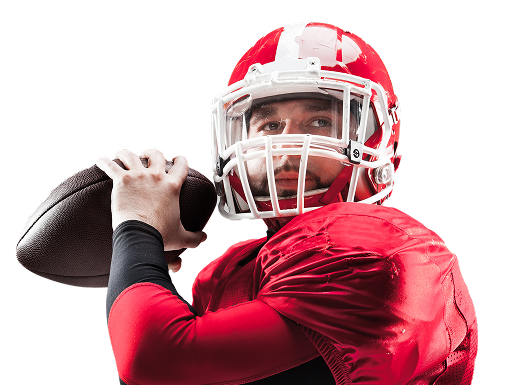
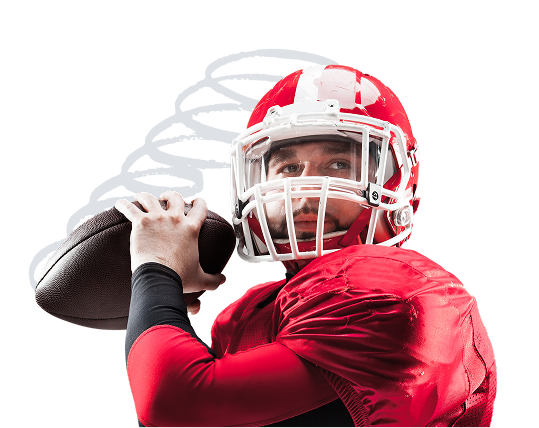
feat: subscription section

diff --git a/styles/main.css b/styles/main.css
@@ -583,6 +583,11 @@ button[aria-label]::before {
   padding: 0.1875rem 0.4375rem;
   border-radius: 0.1875rem;
 }
+.button__subscription {
+  border-radius: 0;
+  background-color: var(--color-dark);
+  width: 4.6875rem;
+}
 
 .icon {
   display: inline-flex;
@@ -601,6 +606,9 @@ button[aria-label]::before {
 }
 .icon--search::before {
   background-image: url("../../icons/icon__search-white.svg");
+}
+.icon--subscription::before {
+  background-image: url("../../icons/icon__arrow-white-top.svg");
 }
 
 .logo {
@@ -1651,6 +1659,104 @@ button[aria-label]::before {
   color: var(--color-gray-40);
 }
 
+.subscription__body {
+  display: grid;
+  grid-template-areas: "title image" "form image";
+  background-color: var(--color-gray-10);
+  border-radius: 0.375rem;
+  padding-left: 4.25rem;
+}
+@media (width <= 63.99875rem) {
+  .subscription__body {
+    grid-template-areas: "title" "form" "image";
+    padding-left: var(--container-padding-x);
+  }
+}
+.subscription__title {
+  grid-area: title;
+  font-size: clamp(1.5rem, 0.9264705882rem + 2.3529411765vw, 3.75rem);
+  display: flex;
+  align-items: center;
+  width: 35.625rem;
+  text-transform: uppercase;
+  font-weight: 800;
+  line-height: 1.2;
+  background: linear-gradient(to bottom, #2b2d33 0%, #6b6f76 60%, #d8d9db 90%, #f5f5f6 100%);
+  background-clip: text;
+  -webkit-background-clip: text;
+  -webkit-text-fill-color: transparent;
+  color: transparent;
+}
+@media (width <= 63.99875rem) {
+  .subscription__title {
+    width: 23.125rem;
+    justify-self: center;
+    justify-content: center;
+    justify-items: center;
+    text-align: center;
+    padding-top: 2.5rem;
+  }
+}
+@media (width <= 30.06125rem) {
+  .subscription__title {
+    width: 100%;
+  }
+}
+.subscription__form {
+  grid-area: form;
+  display: flex;
+  flex-direction: column;
+}
+.subscription__form input {
+  font-size: clamp(1rem, 0.9681372549rem + 0.1307189542vw, 1.125rem);
+  background-color: transparent;
+  border-color: var(--color-dark);
+  border-radius: 0.375rem 0 0 0.375rem;
+  width: 25.875rem;
+  height: 3.625rem;
+  color: var(--color-dark);
+  text-indent: 0.625rem;
+}
+@media (width <= 47.99875rem) {
+  .subscription__form input {
+    width: 100%;
+  }
+}
+@media (width <= 63.99875rem) {
+  .subscription__form {
+    align-items: center;
+    padding-top: 2.5rem;
+  }
+}
+.subscription__input {
+  display: flex;
+  flex-direction: row;
+}
+@media (width <= 47.99875rem) {
+  .subscription__input {
+    width: 100%;
+  }
+}
+.subscription__button {
+  border-radius: 0 0.375rem 0.375rem 0;
+}
+@media (any-hover: hover) {
+  .subscription__button:hover {
+    opacity: 0.6;
+  }
+}
+@media (any-hover: none) {
+  .subscription__button:active {
+    opacity: 0.6;
+  }
+}
+.subscription__image {
+  grid-area: image;
+  display: block;
+  width: 100%;
+  aspect-ratio: 508/385;
+}
+
 .soc1als {
   display: inline-flex;
   justify-content: center;
@@ -1705,6 +1811,7 @@ button[aria-label]::before {
   display: flex;
   justify-content: center;
   align-items: center;
+  text-align: center;
 }
 
 /*# sourceMappingURL=main.css.map */

diff --git a/styles/blocks/subscription/_subscription.scss b/styles/blocks/subscription/_subscription.scss
@@ -1,0 +1,111 @@
+@use "../../helpers" as *;
+
+.subscription {
+  &__body {
+    display: grid;
+    grid-template-areas:
+      "title image"
+      "form image";
+    background-color: var(--color-gray-10);
+    border-radius: rem(6);
+    padding-left: rem(68);
+
+    @include tablet {
+      grid-template-areas: 
+        'title'
+        'form'
+        'image';
+      padding-left: var(--container-padding-x);
+    }
+  }
+
+  &__title {
+    grid-area: title;
+
+    @include fluid-text(60, 24);
+
+    display: flex;
+    align-items: center;
+    width: rem(570);
+    text-transform: uppercase;
+    font-weight: 800;
+    line-height: 1.2;
+
+    background: linear-gradient(to bottom,
+        #2b2d33 0%,
+        #6b6f76 60%,
+        #d8d9db 90%,
+        #f5f5f6 100%);
+    background-clip: text;
+    -webkit-background-clip: text;
+    -webkit-text-fill-color: transparent;
+    color: transparent;
+
+    @include tablet {
+      width: rem(370);
+      justify-self: center;
+      justify-content: center;
+      justify-items: center;
+      text-align: center;
+      padding-top: rem(40);
+    }
+
+    @include mobile-s {
+      width: 100%;
+    }
+  }
+
+  &__form {
+    grid-area: form;
+
+    display: flex;
+    flex-direction: column;
+
+    input {
+      @include fluid-text(18, 16);
+
+      background-color: transparent;
+      border-color: var(--color-dark);
+      border-radius: rem(6) 0 0 rem(6);
+      width: rem(414);
+      height: rem(58);
+      color: var(--color-dark);
+      text-indent: rem(10);
+
+      @include mobile {
+        width: 100%;
+      }
+    }
+    
+    @include tablet {
+      align-items: center;
+      padding-top: rem(40);
+    }
+
+  }
+
+  &__input {
+    display: flex;
+    flex-direction: row;
+
+    @include mobile {
+      width: 100%;
+    }
+  }
+
+  &__button {
+    border-radius: 0 rem(6) rem(6) 0;
+
+    @include hover {
+      opacity: 0.6;
+    }
+  }
+
+  &__image {
+    grid-area: image;
+
+    display: block;
+    width: 100%;
+    aspect-ratio: 508/385;
+  }
+}

diff --git a/index.html b/index.html
@@ -586,8 +586,25 @@
 
 
     <!--START: Subscription section-->
-    <section class="subscription" aria-labelledby="subscription-title"></section>
+    <section class="subscription" aria-labelledby="subscription-title">
+        <div class="subscription__body container">
+          <h2 class="subscription__title" id="subscription__title">
+            Newsletter Subscription
+          </h2>
+          <form class="subscription__form">
+            <label for="subscription__email" class="visually-hidden">Email</label>
+            <span class="subscription__input">
+            <input id="subscription__email" type="email" name="email" value="" placeholder="shovon.khan0099@gmail.com"/>
+            <button class="subscription__button button button__subscription" type="submit">
+                <span class="subscription__icon icon icon--subscription"></span>
+              </button>
+            </span>
+          </form>
+          <img src="./images/subscription__player-1x.png" class="subscription__image" alt="subscription player" width="508" height="385" loading="lazy" />
+        </div>
+    </section>
     <!--END: Subscription section-->
+
   </main>
 
   <footer class="footer">
@@ -624,7 +641,7 @@
 
       <div class="footer__copyright">
         <p>
-          © <time datetime="2026">2026</time> Sport News Template. Code by and GitHub:
+          © <time datetime="2026">2026</time> Sport News Template. Code by/GitHub:
           <a href="/" class="devlopment">@alexalexdev</a>
         </p>
       </div>

diff --git a/styles/blocks/_icon.scss b/styles/blocks/_icon.scss
@@ -22,4 +22,10 @@
       background-image: url("../../icons/icon__search-white.svg");
     }
   }
+
+  &--subscription {
+    &::before {
+      background-image: url("../../icons/icon__arrow-white-top.svg");
+    }
+  }
 }

diff --git a/styles/blocks/_button.scss b/styles/blocks/_button.scss
@@ -89,4 +89,10 @@
     border-radius: rem(3);
   }
 
+  &__subscription {
+    border-radius: 0;
+    background-color: var(--color-dark);
+    width: rem(75);
+  }
+
 }

diff --git a/styles/main.scss b/styles/main.scss
@@ -30,6 +30,8 @@
 @use 'blocks/blog-posts' as *;
 @use 'blocks/articles' as *;
 
+@use 'blocks/subscription' as *;
+
 @use 'blocks/soc1als';
 @use 'blocks/footer';
 

diff --git a/styles/blocks/_footer.scss b/styles/blocks/_footer.scss
@@ -18,5 +18,6 @@
     display: flex;
     justify-content: center;
     align-items: center;
+    text-align: center;
   }
 }

diff --git a/styles/blocks/subscription/_index.scss b/styles/blocks/subscription/_index.scss
@@ -1,0 +1,1 @@
+@forward 'subscription';
